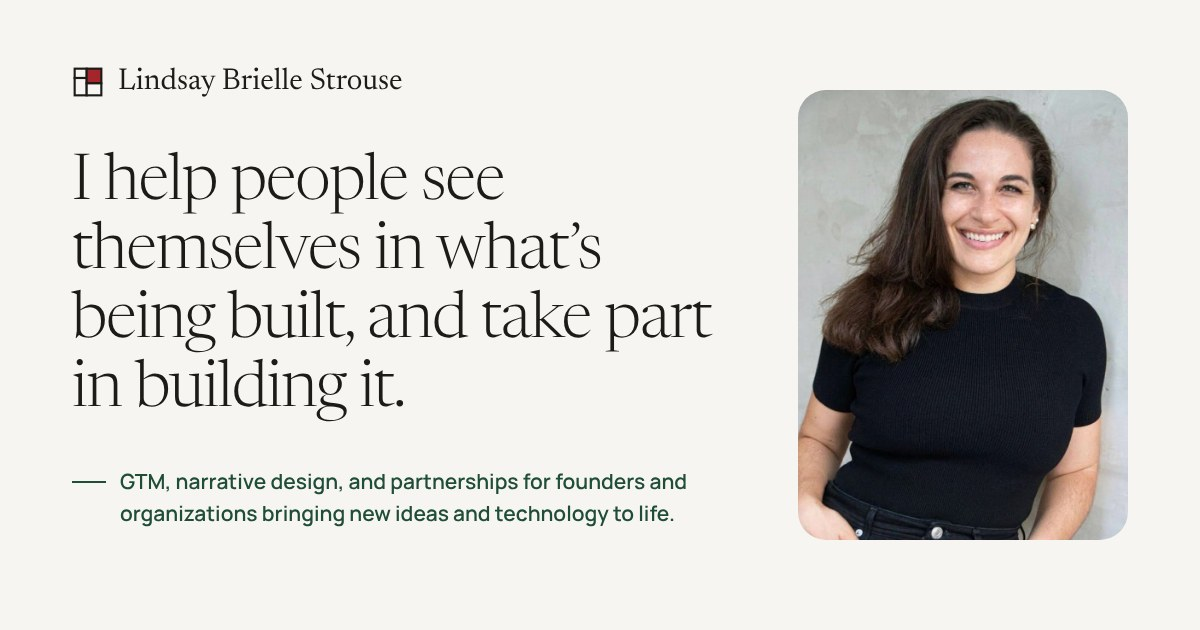
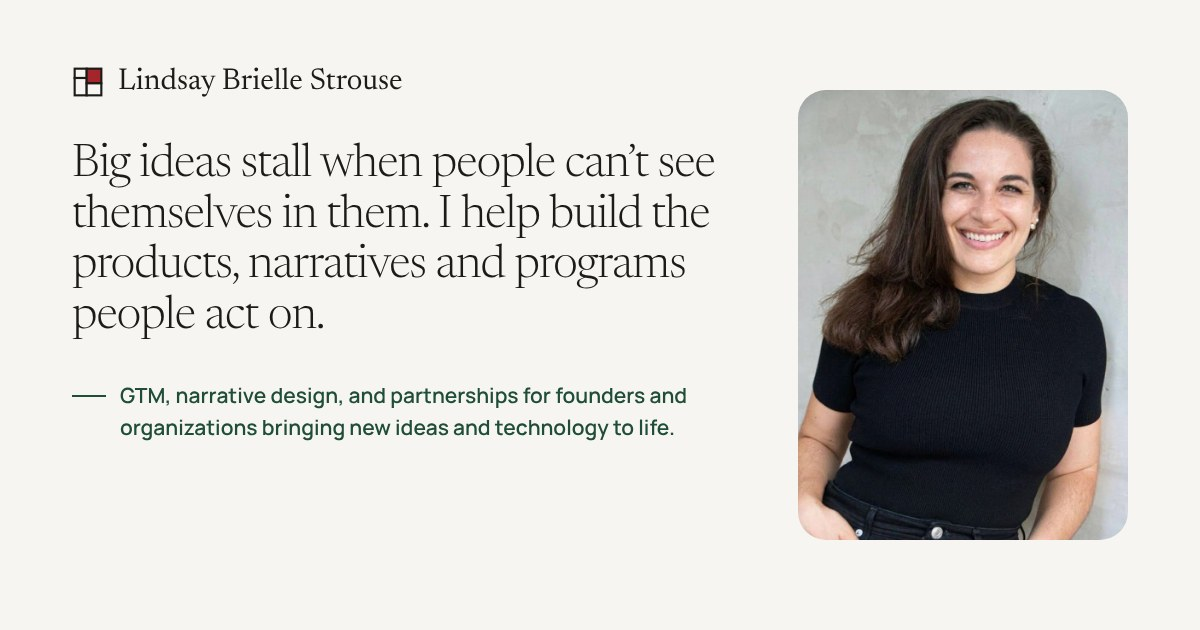
Sharpen hero line (#2)
Updates the h1, meta and Open Graph descriptions, and the share image.

Claude-Session: https://claude.ai/code/session_01Ru613m7Get4EHKbTJ1vzq6

Changed region(s): [[0.0617, 0.2111, 0.5858, 0.6937], [0.0925, 0.754, 0.5858, 0.8444]]

diff --git a/index.html b/index.html
@@ -4,17 +4,17 @@
 <title>Lindsay Brielle Strouse</title>
 <meta charset="utf-8">
 <meta name="viewport" content="width=device-width, initial-scale=1, viewport-fit=cover">
-<meta name="description" content="I help people see themselves in what’s being built, and take part in building it. GTM, narrative design, and partnerships for founders and organizations bringing new ideas and technology to life.">
+<meta name="description" content="Big ideas stall when people can’t see themselves in them. I help build the products, narratives and programs people act on. GTM, narrative design, and partnerships for founders and organizations bringing new ideas and technology to life.">
 <link rel="canonical" href="https://strousehouse.co/">
 <meta property="og:type" content="website">
 <meta property="og:site_name" content="Lindsay Brielle Strouse">
 <meta property="og:url" content="https://strousehouse.co/">
 <meta property="og:title" content="Lindsay Brielle Strouse">
-<meta property="og:description" content="I help people see themselves in what’s being built, and take part in building it. GTM, narrative design, and partnerships for founders and organizations bringing new ideas and technology to life.">
+<meta property="og:description" content="Big ideas stall when people can’t see themselves in them. I help build the products, narratives and programs people act on. GTM, narrative design, and partnerships for founders and organizations bringing new ideas and technology to life.">
 <meta property="og:image" content="https://strousehouse.co/assets/img/og-card.jpg">
 <meta property="og:image:width" content="1200">
 <meta property="og:image:height" content="630">
-<meta property="og:image:alt" content="Lindsay Brielle Strouse: I help people see themselves in what’s being built, and take part in building it">
+<meta property="og:image:alt" content="Lindsay Brielle Strouse: Big ideas stall when people can’t see themselves in them. I help build the products, narratives and programs people act on">
 <meta name="twitter:card" content="summary_large_image">
 <meta name="twitter:image" content="https://strousehouse.co/assets/img/og-card.jpg">
 <link rel="icon" href="/favicon.ico" sizes="48x48">
@@ -95,7 +95,7 @@
   <section class="hero" id="top">
     <div class="wrap hero-grid">
       <div class="hero-copy">
-        <h1>I help people see themselves in what’s being built, and take part in building it.</h1>
+        <h1>Big ideas stall when people can’t see themselves in them. I help build the products, narratives and programs people act on.</h1>
         <p class="tagline">GTM, narrative design, and partnerships for founders and organizations bringing new ideas and technology to life.</p>
         <div class="btn-row">
           <a class="btn" href="#contact">Get in touch</a>

diff --git a/404.html b/404.html
@@ -4,7 +4,7 @@
 <title>Page not found | Lindsay Brielle Strouse</title>
 <meta charset="utf-8">
 <meta name="viewport" content="width=device-width, initial-scale=1, viewport-fit=cover">
-<meta name="description" content="I help people see themselves in what’s being built, and take part in building it. GTM, narrative design, and partnerships for founders and organizations bringing new ideas and technology to life.">
+<meta name="description" content="Big ideas stall when people can’t see themselves in them. I help build the products, narratives and programs people act on. GTM, narrative design, and partnerships for founders and organizations bringing new ideas and technology to life.">
 <link rel="icon" href="/favicon.ico" sizes="48x48">
 <link rel="icon" href="/favicon.svg" type="image/svg+xml">
 <link rel="preconnect" href="https://fonts.googleapis.com">
